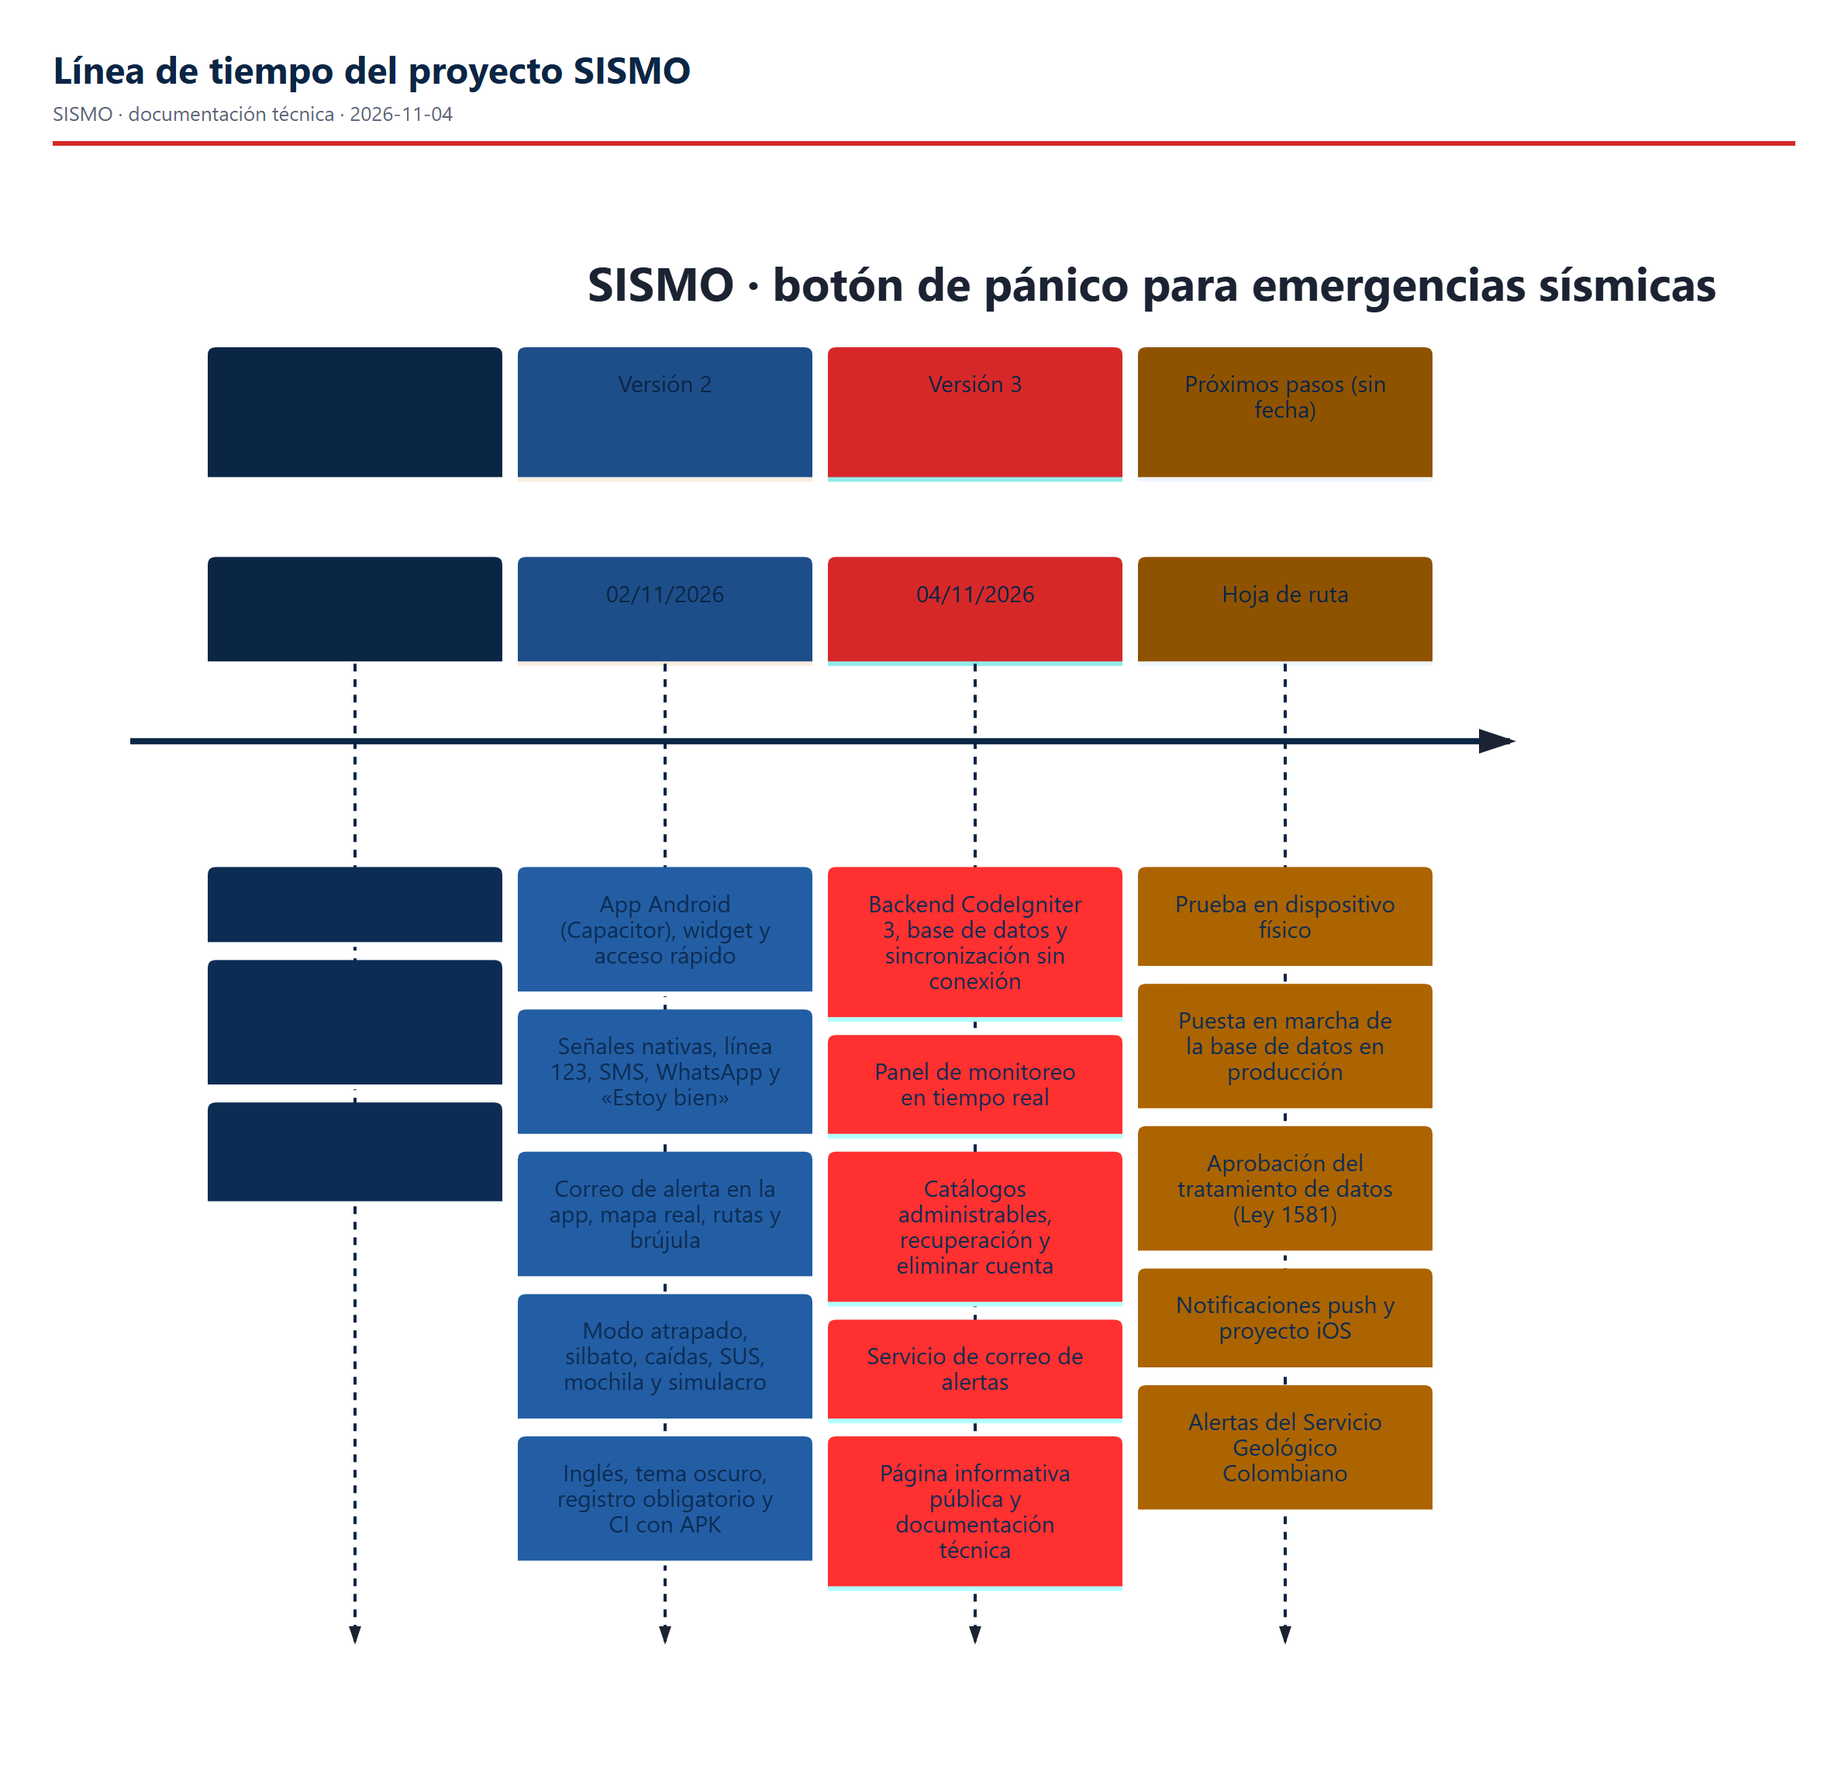
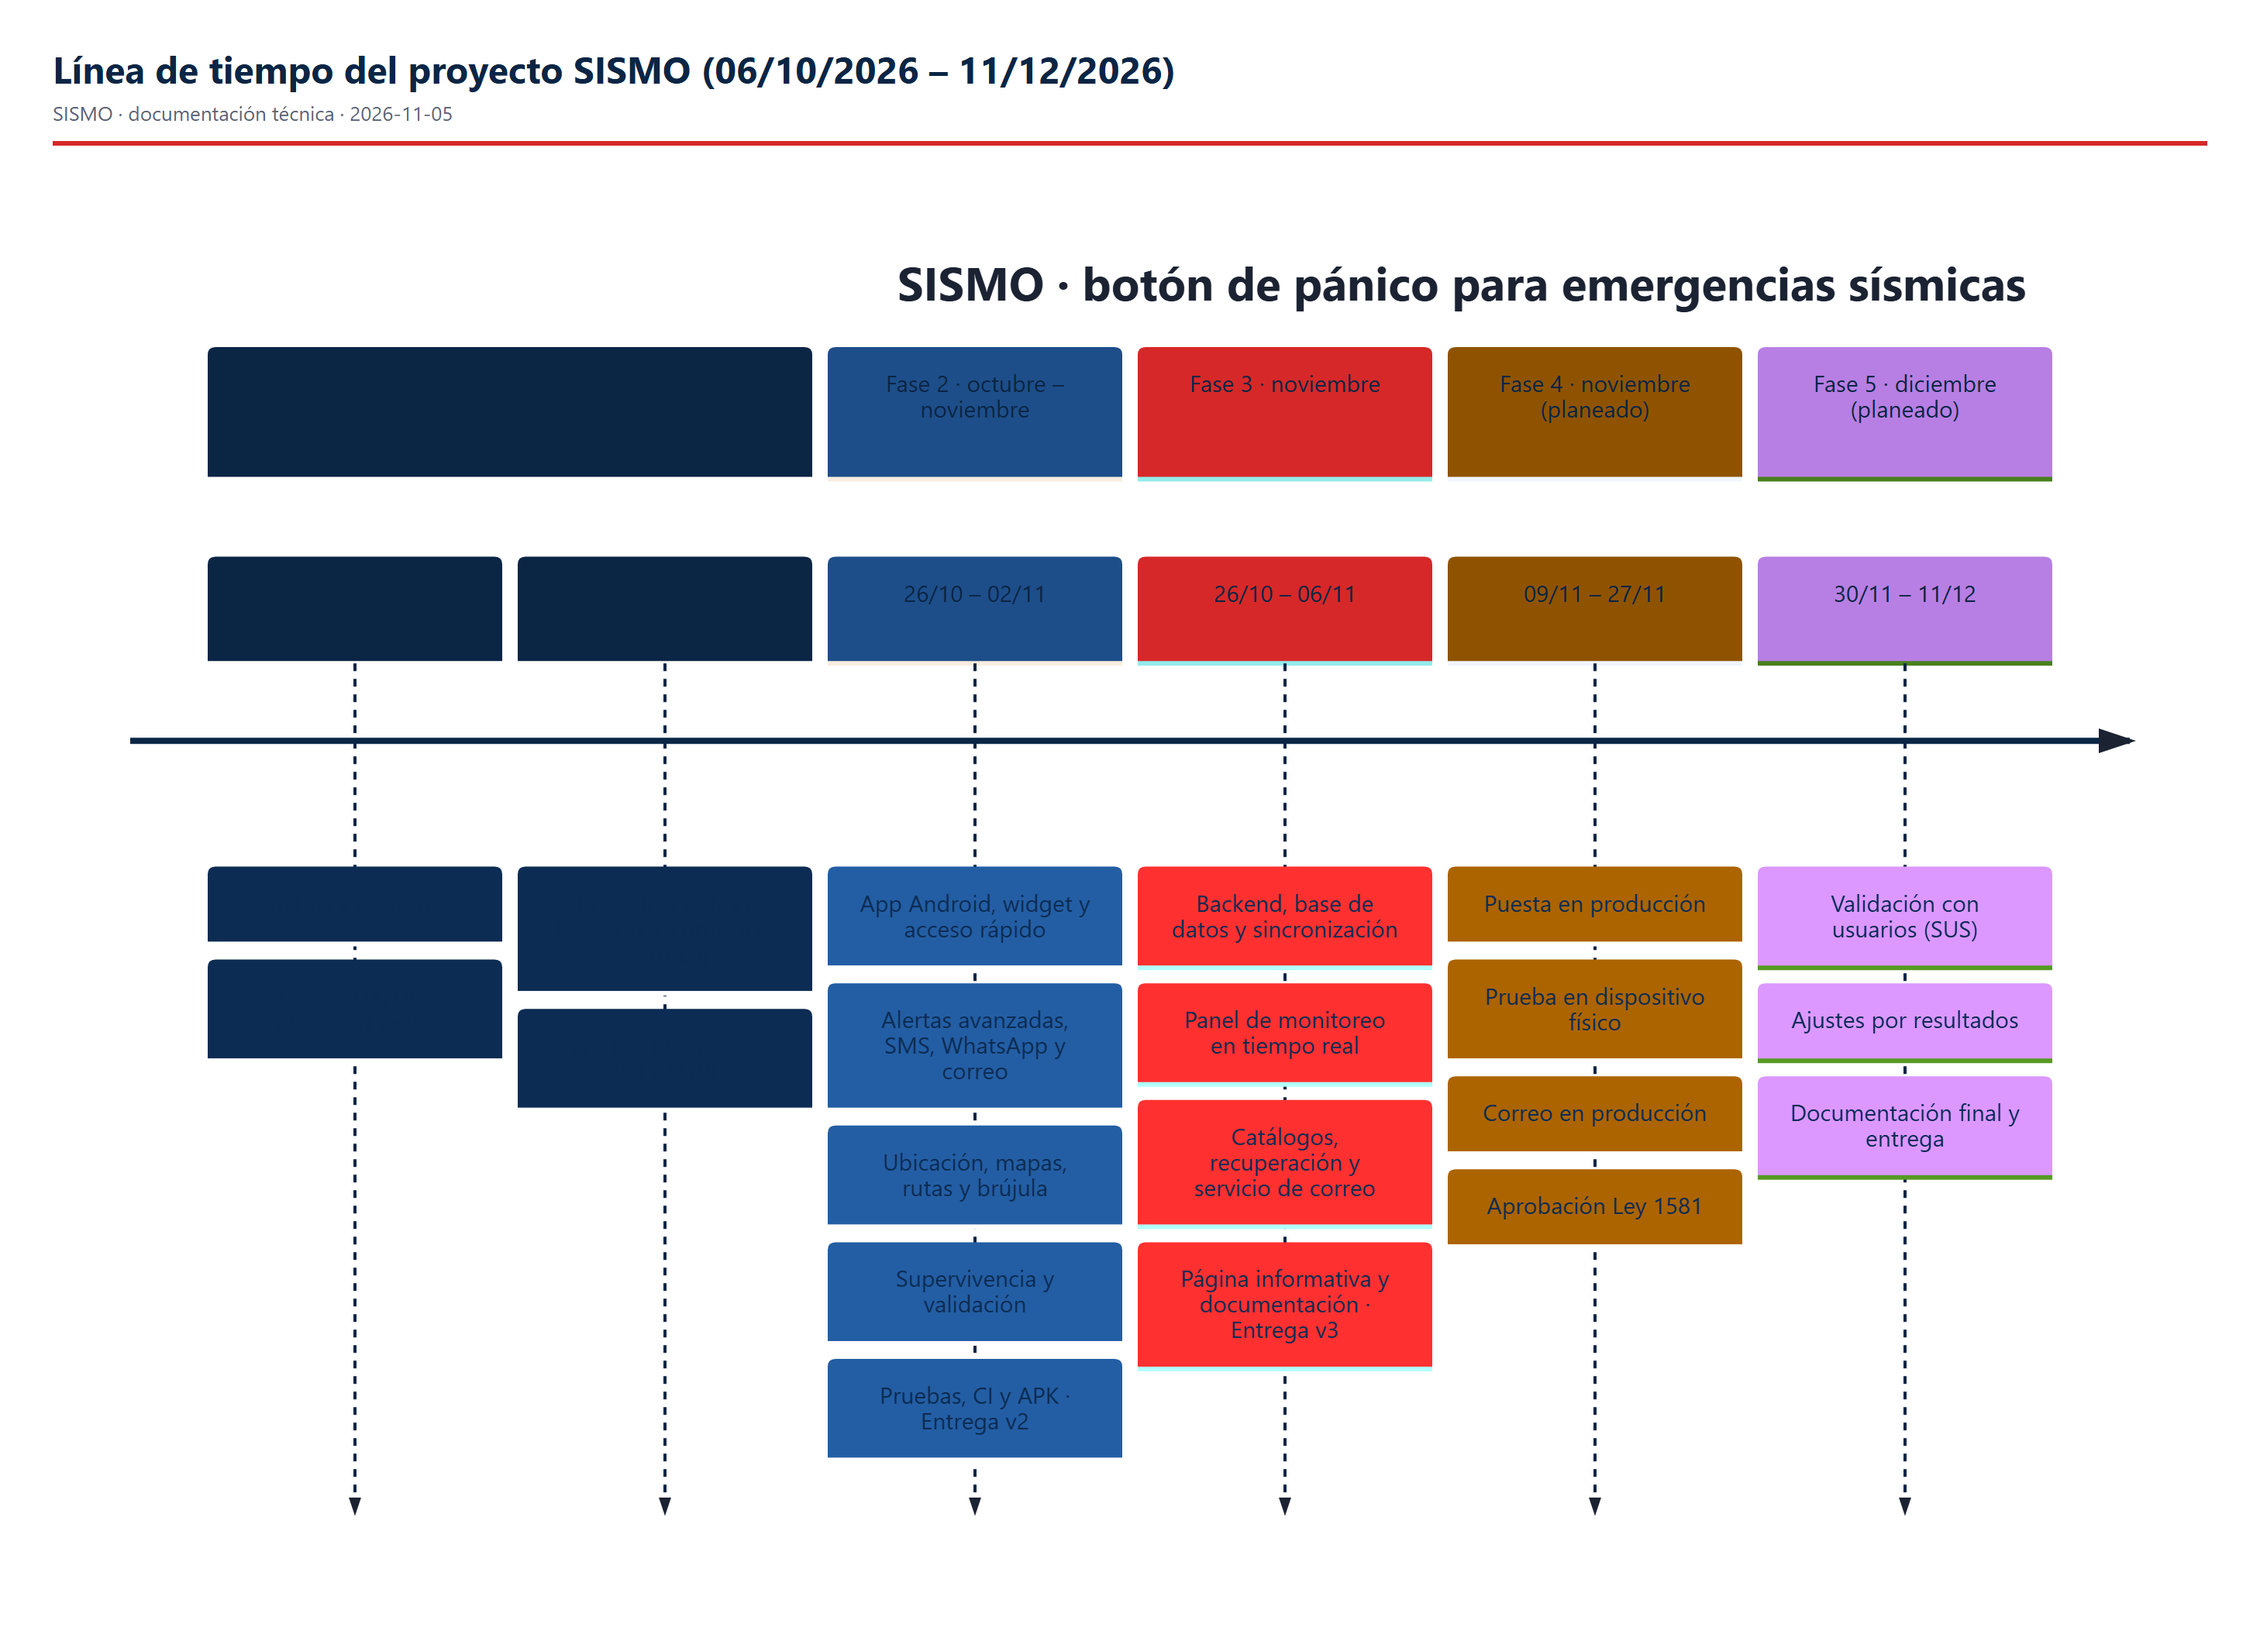
Planificación realista: 06/10/2026 – 11/12/2026 en 5 fases
- Gantt, PERT, ruta crítica y línea de tiempo con 49 días hábiles: fases 1–3 hechas (entregas 23/10, 02/11 y 04/11) y fases 4–5 planeadas (producción, prueba en dispositivo, correo en producción, Ley 1581, validación con usuarios y entrega final el 11/12).
- Notificaciones push fuera del alcance (avances, backend, riesgos y registro de cambios).
- Índice de diagramas y registro de cambios actualizados con el plan.

diff --git a/screenshots/segunda_entrega/diagramas/DIAGRAMAS.md b/screenshots/segunda_entrega/diagramas/DIAGRAMAS.md
@@ -15,7 +15,7 @@ Diagramas técnicos del proyecto (app, backend en CodeIgniter 3 y base de datos)
 
 > **Envío de correos:** se representa como función del sistema, según el alcance pedido. La app arma la solicitud y la envía por `POST` a `VITE_ALERT_EMAIL_URL` (contrato en `src/services/emailService.ts`); el **servicio de correo de alertas** valida los destinatarios y envía por medio del proveedor de correo.
 >
-> **Planificación (Gantt, PERT, ruta crítica, línea de tiempo):** las fechas salen de las entregas registradas en el proyecto (capturas del 24/10/2026, 17 commits del 02/11/2026 y entregas del 04/11/2026). La duración de cada actividad dentro de una entrega es aproximada. La holgura y la ruta crítica se calculan con el método CPM.
+> **Planificación (Gantt, PERT, ruta crítica, línea de tiempo):** el proyecto va del **martes 6 de octubre al viernes 11 de diciembre de 2026** (49 días hábiles, de lunes a viernes), en 5 fases. Las fases 1 a 3 ya están hechas y respetan las entregas reales: versión 1 el 23/10 (capturas del 24/10), versión 2 el 02/11 y versión 3 el 04/11. Las fases 4 y 5 (noviembre y diciembre) son el plan para lo que falta según la hoja de ruta. La holgura y la ruta crítica se calculan con el método CPM.
 
 ---
 
@@ -69,12 +69,20 @@ El diccionario de datos completo está en [`BASE_DE_DATOS_SISMO.md`](BASE_DE_DAT
 
 | # | Imagen | Qué muestra |
 |---|---|---|
-| 15 | `15-gantt.png` | Gantt de las tres entregas (24/10 → 04/11/2026), con hitos y actividades críticas en rojo |
+| 15 | `15-gantt.png` | Gantt de las 5 fases (06/10 → 11/12/2026, días hábiles): hecho en azul, en curso con borde, planeado en blanco, crítico en rojo, hitos de entrega y la fecha de hoy |
 | 16 | `16-pert.png` | Red PERT con ES, D, EF, LS, H (holgura) y LF por actividad |
-| 17 | `17-ruta-critica.png` | Ruta crítica (A → B·C·D·E → F → G·H → J, 12 días); las actividades con holgura van punteadas |
+| 17 | `17-ruta-critica.png` | Ruta crítica A → B → C → I → J·K → L → Q → S → T → U (49 días hábiles); las actividades con holgura van punteadas |
 | 18 | `18-linea-de-tiempo.png` | Línea de tiempo por versión y próximos pasos de la hoja de ruta |
 
-**Actividades de la red:** A prototipo web · B app Android y widget · C alertas avanzadas y comunicación · D ubicación, mapas y puntos de encuentro · E supervivencia y validación · F backend, base de datos y sincronización · G panel de monitoreo · H catálogos administrables · I recuperación y eliminar cuenta · K servicio de correo de alertas · J página informativa y evidencias.
+**Actividades:**
+
+| Fase | Actividades | Fechas | Estado |
+|---|---|---|---|
+| 1 · Análisis, diseño y prototipo | A análisis y requisitos · B diseño UX/UI e identidad visual · C prototipo web v1 | 06/10 – 23/10 | Hecho |
+| 2 · App completa | D app Android, widget y acceso rápido · E alertas avanzadas y comunicación · F ubicación, mapas, rutas y puntos · G supervivencia y validación · H pruebas, CI y APK | 26/10 – 02/11 | Hecho |
+| 3 · Backend y monitoreo | I backend, BD y sincronización · J panel de monitoreo · K catálogos, recuperación y servicio de correo · L página informativa y documentación | 26/10 – 06/11 | Hecho / en curso |
+| 4 · Producción y pruebas reales | N puesta en producción · O prueba en dispositivo físico · P correo en producción · Q aprobación Ley 1581 | 09/11 – 27/11 | Planeado |
+| 5 · Validación y cierre | S validación con usuarios (SUS) · T ajustes · U documentación final y entrega | 30/11 – 11/12 | Planeado |
 
 ---
 

diff --git a/docs/segunda_entrega/AVANCES_Y_HOJA_DE_RUTA_2026-11-04.md b/docs/segunda_entrega/AVANCES_Y_HOJA_DE_RUTA_2026-11-04.md
@@ -424,7 +424,7 @@ Se creó una **página web informativa para presentar y «vender» SISMO**, serv
 | 7 | Funcionamiento sin conexión (PWA / service worker) | La guía y la alerta local disponibles sin red (los **datos** ya se guardan sin red y se suben al volver la conexión, §2.14) |
 | 8 | **Poner en marcha la base de datos:** ejecutar el SQL de las tablas `sismo_*`, definir `SISMO_LLAVE_CIFRADO` y `SISMO_CORS_ORIGENES` en el servidor y `VITE_SISMO_API_URL` en la app | Los datos empiezan a guardarse en la base de datos |
 | 9 | Aprobación del tratamiento de datos de salud y de contactos (Ley 1581) | Requisito legal antes de usar la ficha médica en el servidor con usuarios reales |
-| 10 | Notificaciones push a la app cuando el centro de monitoreo registra ayuda | La persona se entera aunque no tenga la pantalla de alerta abierta |
+| 10 | ~~Notificaciones push a la app cuando el centro de monitoreo registra ayuda~~ | **Fuera del alcance** de este proyecto: la ayuda se ve como aviso fijo con la alerta abierta (consulta cada 15 s) |
 | 10b | Protocolo de atención con el equipo de emergencias y prueba del panel con varios operadores | Uso real del centro de monitoreo |
 | 11 | Estadísticas de la tesis consultando la base de datos (tiempos de reacción, SUS) | Análisis con todos los participantes, no teléfono por teléfono |
 
@@ -452,7 +452,7 @@ screenshots/<primera|segunda>_entrega/AAAA-MM-DD/
 - **Base de datos:** DER, modelo lógico y modelo físico (este último generado desde el script SQL).
 - **Planificación y tiempos:** Gantt, PERT, ruta crítica y línea de tiempo.
 
-El envío de correos de alerta aparece como función del sistema (servicio de correo + proveedor). Las fechas de planificación salen de las tres entregas registradas (24/10, 02/11 y 04/11/2026), y la ruta crítica se calcula con CPM. Las fuentes Mermaid están en `screenshots/segunda_entrega/diagramas/fuentes/` y las imágenes se regeneran con `generar-imagenes.cjs`.
+El envío de correos de alerta aparece como función del sistema (servicio de correo + proveedor). La planificación va del 6 de octubre al 11 de diciembre de 2026 (49 días hábiles, 5 fases). Lo hecho respeta las entregas reales (23/10, 02/11 y 04/11) y lo que falta queda como plan de noviembre y diciembre. La ruta crítica se calcula con CPM. Las fuentes Mermaid están en `screenshots/segunda_entrega/diagramas/fuentes/` y las imágenes se regeneran con `generar-imagenes.cjs`.
 
 **Documentación técnica y funcional:** `screenshots/segunda_entrega/documentacion/DOCUMENTACION.md` es el índice de los documentos 19 a 30: requisitos funcionales (48) y no funcionales, historias de usuario (21), diccionario de datos, API y endpoints, manual técnico, manual de usuario, plan y casos de prueba, informe de resultados (04/11/2026: 116 de 116 unitarias, 114 de 114 e2e, lint y tipos sin errores), registro de riesgos (17), índice de evidencias visuales (125) y registro de cambios y versiones (1.0 a 3.1).
 

diff --git a/screenshots/segunda_entrega/documentacion/28-REGISTRO_DE_RIESGOS.md b/screenshots/segunda_entrega/documentacion/28-REGISTRO_DE_RIESGOS.md
@@ -16,7 +16,7 @@ Versión 1.0 · 4 de noviembre de 2026.
 | R-06 | Pérdida o filtración de la llave de cifrado | Seguridad | 1 | 3 | **3 Medio** | La llave vive solo en el servidor (variable de entorno), nunca en código ni BD; la custodia infraestructura. Si se pierde, las fichas no se pueden descifrar | Infraestructura | Controlado |
 | R-07 | Tratamiento de datos sin aprobación formal (Ley 1581) | Legal | 2 | 3 | **6 Alto** | Consentimiento explícito para la ficha; aprobación pendiente antes de usar el servidor con usuarios reales | Dirección / jurídica | Abierto |
 | R-08 | Registro masivo de dispositivos falsos | Seguridad | 2 | 2 | **4 Medio** | Validación de entrada y límite de cuerpo; pendiente un límite de registros por IP | Desarrollo | Abierto |
-| R-09 | La persona no ve la ayuda del operador si cierra la pantalla de alerta | Funcional | 2 | 2 | **4 Medio** | Aviso fijo mientras la alerta está abierta; notificaciones push en la hoja de ruta | Desarrollo | Abierto |
+| R-09 | La persona no ve la ayuda del operador si cierra la pantalla de alerta | Funcional | 2 | 2 | **4 Medio** | Aviso fijo mientras la alerta está abierta (consulta cada 15 s); las notificaciones push quedan fuera del alcance | Desarrollo | Aceptado |
 | R-10 | Falsas alarmas o caídas no detectadas por umbrales sin calibrar | Funcional | 2 | 2 | **4 Medio** | Confirmación antes de activar; detección de caídas opcional; calibración con pruebas reales pendiente | Desarrollo | Abierto |
 | R-11 | Ubicación imprecisa (interiores, escritorio) | Técnico | 2 | 2 | **4 Medio** | Afinado de GPS de hasta 10 s, precisión visible en mensajes y panel, actualización cada 2 min | Desarrollo | Mitigado |
 | R-12 | Dependencia de servicios gratuitos externos (USGS, OpenStreetMap, ruteo, geocodificación) | Dependencias | 2 | 1 | **2 Bajo** | Caché del USGS, mensajes de error, dos fuentes de geocodificación, la brújula funciona sin internet | Desarrollo | Mitigado |

diff --git a/screenshots/segunda_entrega/documentacion/30-REGISTRO_DE_CAMBIOS_Y_VERSIONES.md b/screenshots/segunda_entrega/documentacion/30-REGISTRO_DE_CAMBIOS_Y_VERSIONES.md
@@ -86,13 +86,16 @@ Formato basado en *Keep a Changelog*. Las fechas salen de las evidencias y del h
 
 ---
 
-## Pendiente (hoja de ruta)
+## Planeado hasta el 11/12/2026
 
-- Prueba en dispositivo físico.
-- Puesta en marcha de la base de datos en producción.
-- Aprobación del tratamiento de datos (Ley 1581).
-- Notificaciones push.
-- Proyecto iOS.
-- Alertas del Servicio Geológico Colombiano.
-- Funcionamiento sin conexión como PWA.
-- Estadísticas de la tesis desde la base de datos.
+| Fechas | Actividad |
+|---|---|
+| 09/11 – 13/11 | Puesta en producción (base de datos, llave de cifrado, despliegue) |
+| 09/11 – 20/11 | Prueba en dispositivo físico y ajustes nativos |
+| 16/11 – 20/11 | Correo de alertas en producción y pruebas reales |
+| 09/11 – 27/11 | Aprobación del tratamiento de datos (Ley 1581) |
+| 30/11 – 04/12 | Validación con usuarios: simulacros y encuesta SUS |
+| 07/12 – 09/12 | Ajustes por los resultados de la validación |
+| 10/12 – 11/12 | Documentación final, informe y **entrega final (11/12)** |
+
+**Fuera del alcance de este proyecto** (posibles mejoras futuras): notificaciones push, proyecto iOS, alertas del Servicio Geológico Colombiano, funcionamiento sin conexión como PWA y estadísticas de la tesis consultando la base de datos.

diff --git a/docs/segunda_entrega/BACKEND_Y_SINCRONIZACION.md b/docs/segunda_entrega/BACKEND_Y_SINCRONIZACION.md
@@ -182,5 +182,4 @@ inválido y el código no se puede reutilizar) y CORS.
 - Ejecutar el script SQL y configurar las variables en el servidor; probar los endpoints de punta a punta.
 - **Aprobación del tratamiento de datos de salud** (ficha médica) y de datos personales de contactos (Ley 1581 de 2012).
 - Límite de registros por IP en `POST /registro`.
-- Notificaciones push a la app cuando se registra ayuda (hoy la app consulta cada 15 s con la alerta abierta).
 - Probar el panel con varios operadores a la vez y definir el protocolo de atención con el equipo de emergencias.
